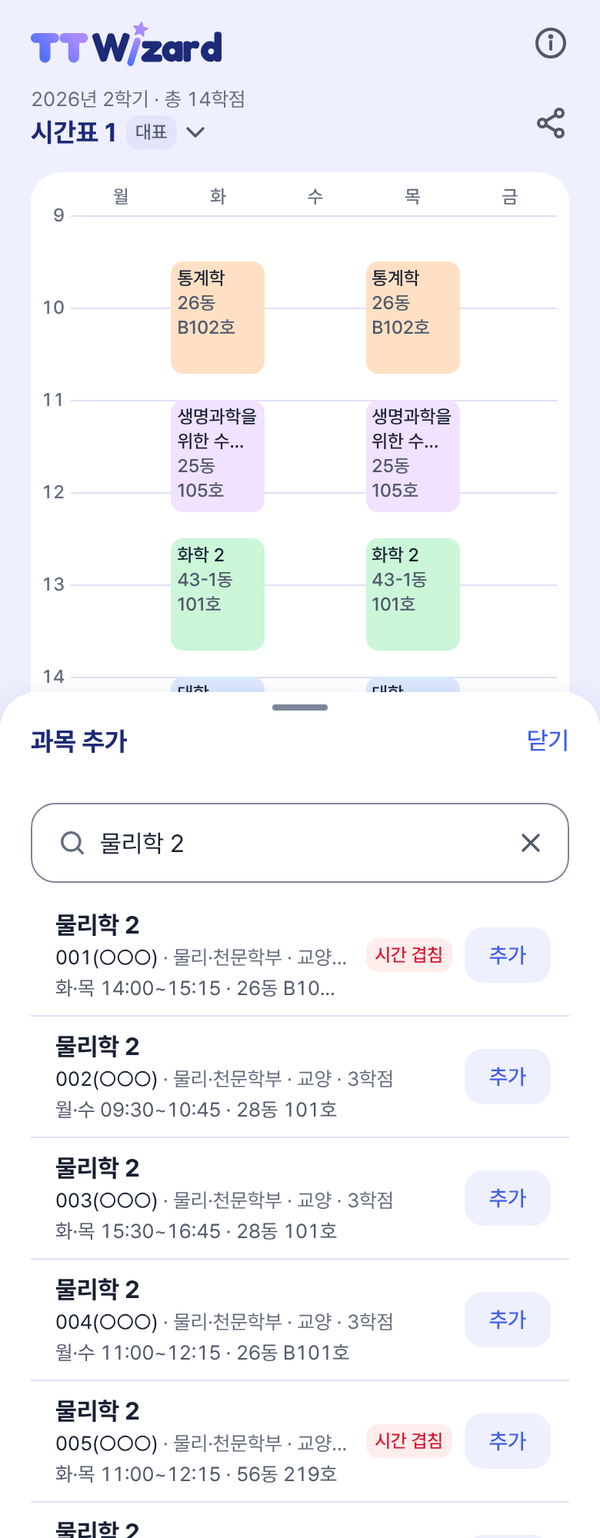
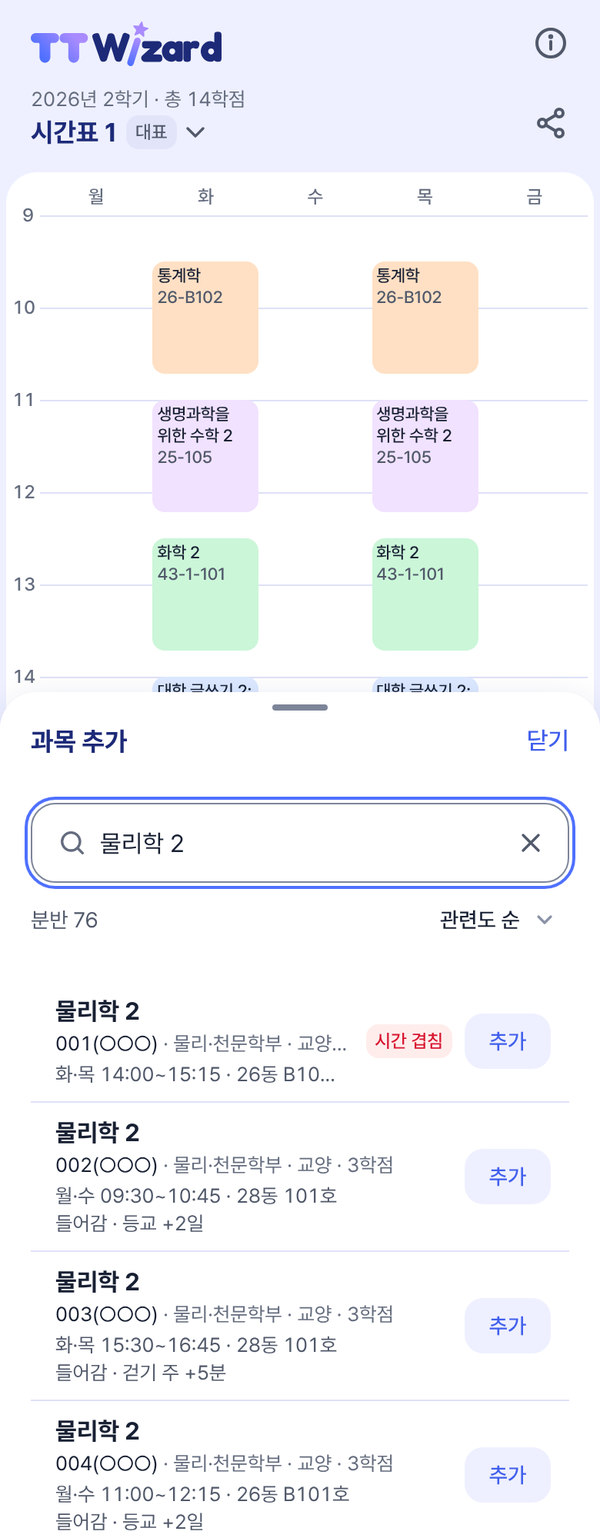
README 0.12.0 판으로 갱신·화면 캡처 다시 찍기 / Update READMEs and screenshots for 0.12.0
- 루트 README: 아래 탭 다섯(시간표·동선 탐색·졸업 요건·친구·테마)에 맞춰 '할 수 있는 것'을 고침. 졸업 요건, 로그인과 친구, 안드로이드 앱(위젯·폰 알림·바로 보내기·앱 내 업데이트·12월 아이콘) 절을 새로 쓰고, 수강 제한 태그·캘린더 파일·빈 자리 줄·처음 안내를 더함. 없어진 이동시간(경사·평지) 고르기와 '가입이 필요 없습니다'를 고침
- 루트 README: 직접 돌려 보기·스토어 앱·탐색 엔진·편람 자동 갱신·폴더 구조·고칠 때 알아 둘 것·라이선스 표를 지금 코드에 맞춤(Firebase, release.yml, legal_pages.py·widget_themes.py·google_notices.py, firebase/, docs/legal/, Google 고지문)
- 화면 캡처: 0.12.0 웹 앱으로 다시 찍음(같은 2026년 2학기 과목 다섯·기숙사 919A동, 교수 이름 ○○○). 졸업 요건 grad.png 를 새로 넣음(생명과학부 26학번 예시). image.png 는 다시 내보낸 결과가 화소까지 같아 그대로 둠
- docs/screenshots/README.md: 찍은 날·커밋과 찍는 법
- web/README.md '파일' 표: search·timetables·requirements·limits·ics·account·sync·firebase-config 모듈, 처리방침 등 페이지 폴더, data/ 의 새 자료
- licenses/README.md: 앱에만 드는 고지문에 Google, 웹 로그인 SDK 는 gstatic 에서 받는다는 줄
- 34feab1(판 0.12.0)에서 만들었고 그 뒤 커밋(2ef54e5·67c51c8, 판 0.12.1)과 겹치는 파일은 없음. data·graph_patch·magicmap·results README 는 지금과 맞아 그대로 둠

- Root README: rework "What it does" around the five bottom tabs (Timetable, Route, Graduation, Friends, Theme). New sections for graduation requirements, sign-in and friends, and the Android app (widgets, phone alerts, direct share, in-app updates, December icon); add course restriction tags, calendar files, free-slot lines and the first-run tour. Drop the removed travel-time (slope/flat) choice and "no sign-up needed"
[…]

diff --git a/web/README.md b/web/README.md
@@ -977,13 +977,22 @@ python -m http.server 8000 -d web
 | `js/engine.js` | 이동시간 행렬 · 평가 · 탐색(백트래킹 + 분기 한정) · 경로 선 풀기. 파이썬과 같은 답을 내는지 `tests/test_web.py` 가 node 로 확인 |
 | `js/search-worker.js` | 탐색 워커: `engine.search` 를 화면 밖에서 돌리고 진행 정도·결과·겹치는 과목을 보낸다. `app.js` 가 `new Worker(new URL("./search-worker.js", import.meta.url), { type: "module" })` 로 부른다(배포 판이 붙는 모양) |
 | `js/dev.js` | 개발자 메뉴(웹만, 위 '개발자 메뉴'). `app.js` 가 열 때만 부르고 스토어 앱 묶음에는 넣지 않는다 |
-| `js/app.js` | 화면 동작(검색, 과목 시트, 추가 설정, 화면 이동과 뒤로 가기, 결과·지도, 정보 화면). 담은 과목·조건·추가 설정·직접 넣거나 바꾼 강의실과 시간·최근 검색어·끈 이벤트 테마·고른 라이트·다크는 브라우저(localStorage)에만 저장 |
-| `data/` | `scripts/export_web.py` 가 만든다. git 에는 올리지 않고, 배포 때 GitHub Actions 가 다시 만든다. `semesters.json`(학기 목록)과 `semesters/<학기>.json`(지난 학기) 포함 |
+| `js/app.js` | 화면 동작(검색, 과목 시트, 추가 설정, 화면 이동과 뒤로 가기, 결과·지도, 내 시간표, 졸업 요건, 친구, 로그인·학과와 학번·처음 안내, 정보 화면). 담은 과목·조건·추가 설정·직접 넣거나 바꾼 강의실과 시간·최근 검색어·끈 이벤트 테마·고른 라이트·다크·학과와 학번·졸업 요건의 성적과 체크는 브라우저(localStorage)에만 저장. 로그인하면 저장한 시간표의 사본(교수 이름·출발 지점 뺌)만 `account.js` 가 서버와 맞춘다 |
+| `js/search.js` | 과목 검색(`searchCourses`: 줄임말·초성·한/영 전환·학과 줄임, SNUTT 규칙. 레포 `docs/search.md`) |
+| `js/timetables.js` | 저장한 시간표의 자료 형식과 순수 함수(레포 `docs/timetables.md`) |
+| `js/requirements.js` | 졸업 요건·성적·학기 학점 상한·다음 학기 추천 계산. 폰 안에서만(레포 `docs/requirements.md`) |
+| `js/limits.js` | 수강 제한 태그 고르기. 폰 안에서만(레포 `docs/limits.md`) |
+| `js/ics.js` | 시간표 → 캘린더 파일(.ics, 레포 `docs/calendar.md`) |
+| `js/account.js` | 로그인·기기 간 동기화·친구(Firebase Authentication·Cloud Firestore). SDK 는 로그인할 때만 gstatic 에서 받는다(레포 `docs/account.md`) |
+| `js/sync.js` | 동기화·친구 사본·닉네임의 순수 함수(서버를 부르지 않는다) |
+| `js/firebase-config.js` | Firebase 웹 설정. 레포에는 `null`, 배포 때 `export_web.py` 가 저장소 변수 `FIREBASE_WEB_CONFIG` 로 채운다(비어 있으면 로그인할 수 없다) |
+| `data/` | `scripts/export_web.py` 가 만든다. git 에는 올리지 않고, 배포 때 GitHub Actions 가 다시 만든다. `semesters.json`(학기 목록)과 `semesters/<학기>.json`(지난 학기), `requirements/`(졸업 요건과 학과 목록), `calendar.json`(학기 기간), `limits.json`(수강 제한), `notify.json`(안드로이드 편람 알림) 포함 |
 | `vendor/leaflet/` | Leaflet 1.9.4 (npm 배포본 그대로) |
 | `licenses/` | 오픈소스 라이선스 화면의 고지문 전문(머리 `이름 — 주소`·한글 설명 한 줄, 그 아래 원문 그대로). 백엔드가 넣는다(update60 의 `snutt.txt`·`pretendard.txt`, update61 의 `fredoka.txt`·`odbl.txt`·`kogl-type1.txt`, update92 의 `leaflet.txt`). 넣으면 `sw.js` 의 `SHELL` 에도. 확장자를 붙인다(앱 안 서버는 확장자 없는 주소에 `index.html` 을 준다) |
 | `model/` | 없다. 서울대학교 관악캠퍼스 3D·2D 모형은 높이 정보라 11/3 레포·웹·앱에서 내렸고(백엔드 update82, 법무 '그대로 갈 때' 1) PC 에서만 만든다(`scripts/campus_model.py` → `data/local/model/`) |
 | `vendor/three/` | three.js r128 과 OrbitControls (npm 배포본 그대로. PC 에서 만드는 3D 모형이 파일 안에 담아 쓴다, 웹 화면은 쓰지 않는다) |
 | `field/` | 오르막 실측 페이지: 폰 GPS 기록(백엔드 몫, 앱에서 링크하지 않음). `../js/engine.js`·`../data/`·`../vendor/leaflet/`·`../icons/favicon.svg` 를 함께 쓴다 |
+| `privacy/`, `support/`, `terms/`, `delete-account/` | 처리방침(이전 판 `privacy/2026-11-01/`·`2026-11-11/` 포함)·문의·이용 규칙·계정 삭제 안내 페이지. `scripts/legal_pages.py` 가 레포 `docs/legal/` 원문으로 만든다. 앱 묶음에는 넣지 않고 앱은 웹 주소로 연다 |
 
 ## 배포
 

diff --git a/docs/screenshots/README.md b/docs/screenshots/README.md
@@ -2,8 +2,10 @@
 
 루트 README 에 쓰는 앱 화면입니다. 저장소의 MIT 라이선스 대상이 아닙니다(루트 README '라이선스와 자료 조건').
 
-- 2026-10-30 에 main(7cdeb64)의 웹 앱을 폰 크기(390×1000)와 컴퓨터 크기(1280×800)로 띄워 찍었습니다. 편람은 2026년 2학기입니다.
-- 교수 이름은 찍기 전에 ○○○ 로 가렸습니다.
+- 2026-11-16 에 main(34feab1, 판 0.12.0)의 웹 앱을 폰 크기(390×1000)와 컴퓨터 크기(1280×800)로 띄워 찍었습니다(그전 판은 2026-10-30, 7cdeb64). 편람은 2026년 2학기입니다.
+- 찍는 법: `python scripts/export_web.py` 로 `web/data/` 를 만들고 그 복사본의 교수 이름을 ○○○ 로 바꿔 띄운 뒤, Chromium(Playwright, 화소 비율 2)으로 찍어 폭 600(컴퓨터는 1600)으로 줄였습니다. 처음 안내·로그인·학과와 학번은 건너뛰었고, 동선 탐색에서 과목 다섯 개를 담아 기숙사 919A동으로 만든 1위 후보를 `시간표 1` 로 저장했습니다.
+- `grad.png` 는 학과와 학번을 생명과학부 26학번으로 넣어 본 예시입니다. 들은 과목은 위 2026년 2학기 시간표뿐이고 성적은 넣지 않았습니다.
+- 친구 탭은 로그인해야 쓸 수 있어서 찍지 않았습니다.
 - 지도에는 바탕 지도의 출처 표기(© 국토지리정보원 · © OpenStreetMap)가 들어 있습니다. 잘라 쓸 때도 이 표기는 남겨 둡니다.
-- `image.png` 는 앱의 '이미지로 저장' 결과를 줄인 것입니다. 원래 파일 안에 들어 있던 시간표 자료는 지웠습니다.
+- `image.png` 는 앱의 '이미지로 저장' 결과를 줄인 것입니다. 원래 파일 안에 들어 있던 시간표 자료는 지웠습니다. 2026-11-16 에 같은 시간표를 다시 내보낸 결과가 화소까지 같아서 10/30 파일을 그대로 둡니다.
 - 화면이 바뀌면 다시 찍습니다.

diff --git a/licenses/README.md b/licenses/README.md
@@ -20,8 +20,9 @@ Apache License 2.0 전문은 따로 두지 않고 그 라이선스가 걸리는 
 10/22 밤부터 앱 화면은 고지문 전문을 차례로 다 보여서 전문이 세 번 나온다. 그대로 둔다.
 
 웹에도 쓰는 것(SNUTT, Pretendard, Fredoka, OpenStreetMap, 공공누리, Leaflet)은 `web/licenses/` 에 둔다. 웹은 그대로 `licenses/…` 주소로 열고, `scripts/build_app.py` 가 `web/` 을 앱 묶음으로 옮길 때 같이 들어간다.
-앱에만 들어가는 것(이 폴더의 `*.txt`: Capacitor·AndroidX·Cordova)은 `build_app.py` 가 같은 묶음 `licenses/` 에 더한다(두 곳에 같은 이름이 있으면 멈춘다).
+앱에만 들어가는 것(이 폴더의 `*.txt`: Capacitor·AndroidX·Cordova·Google)은 `build_app.py` 가 같은 묶음 `licenses/` 에 더한다(두 곳에 같은 이름이 있으면 멈춘다).
 그래서 앱과 웹이 같은 주소 `licenses/<이름>.txt` 를 연다. 앱의 '오픈소스 라이선스' 화면이 이 파일들을 읽는다.
+웹 로그인에 쓰는 Firebase JS SDK(Apache-2.0)는 저장소와 앱 묶음에 넣지 않고 로그인할 때 gstatic 에서 받는다(`docs/account.md`).
 그 밖에 Leaflet 은 `web/vendor/leaflet/LICENSE`(화면은 같은 글의 `web/licenses/leaflet.txt` 를 읽는다), three.js 는 `web/vendor/three/LICENSE`, 앱에 넣는 글꼴 파일 옆에는 `vendor/pretendard/LICENSE.txt` 가 있다.
 화면이 읽는 고지문은 이름 끝에 확장자를 붙인다: 앱 안 서버(Capacitor)는 확장자 없는 주소에 `index.html` 을 준다(11/4, `LICENSE` 를 읽던 Leaflet 칸에 페이지 소스가 보였다. `docs/app.md` '오픈소스 고지').
 Pretendard 판을 올리면(`app/package.json`, `web/index.html` 의 CDN 주소) `web/licenses/pretendard.txt` 첫 줄의 판도 고친다(`tests/test_app.py` 가 본다).
